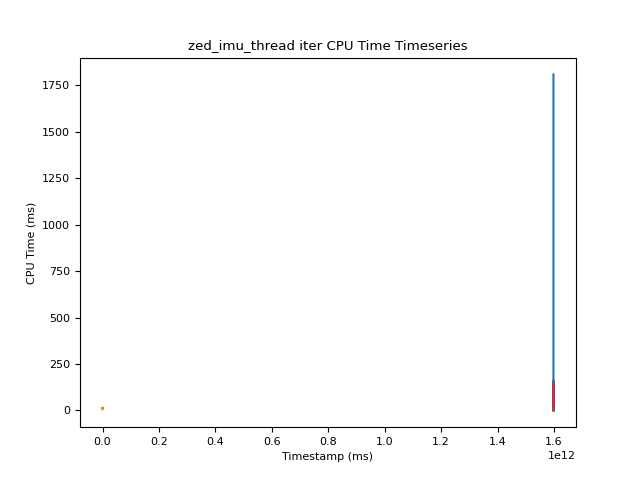
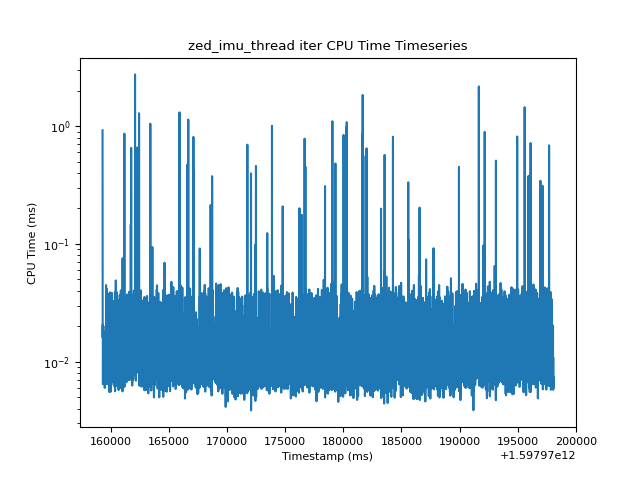
Generate Graphs

diff --git a/analysis/main.py b/analysis/main.py
@@ -495,15 +495,17 @@ def get_data(metrics_path: Path) -> Tuple[Any]:
 
         return ts, summaries, switchboard_topic_stop, thread_ids, warnings_log
 
-@ch_cache.decor(ch_cache.FileStore.create("../metrics"))
+FILE_NAME = "desktop-sponza"
+
+@ch_cache.decor(ch_cache.FileStore.create("../metrics-" + FILE_NAME))
 def get_data_cached(metrics_path: Path) -> Tuple[Any]:
     return get_data(metrics_path)
 
-ts, summaries, switchboard_topic_stop, thread_ids, warnings_log = get_data(Path("..") / "metrics")
+ts, summaries, switchboard_topic_stop, thread_ids, warnings_log = get_data(Path("..") / ("metrics-" + FILE_NAME))
 account_names = ts.index.levels[0]
 
 with ch_time_block.ctx("generating text output", print_start=False):
-    output_path = Path("../output")
+    output_path = Path("../output-" + FILE_NAME)
     output_path.mkdir(exist_ok=True)
     with (output_path / "account_summaries.md").open("w") as f:
         f.write("# Summaries\n\n")
@@ -538,79 +540,88 @@ with ch_time_block.ctx("generating text output", print_start=False):
             f.write("\n\n")
 
 with ch_time_block.ctx("generating combined timeseries", print_start=False):
-        # Stacked graphs
-        f, ax = plt.subplots(len(account_names), sharex=True)
-        f.tight_layout(pad=2.0)
-        plt.rcParams.update({'font.size': 8})
-        # plot the same data on both axes
-        for i, account_name in enumerate(account_names):
-            ax[i].plot(ts.loc[account_name, "wall_time_start"], ts.loc[account_name, "cpu_time_duration"], 'tab:orange', linewidth=.5)
-            # ax[i].set_title(f"{account_name} CPU Time Timeseries")
-            # ax[i].set(ylabel='CPU Time (ms)')
-        plt.xlabel("Timestamp (ms)")
-        plt.savefig(output_path / "stacked.png")
+    # Stacked graphs
+    total_cpu_time = 0.0
+    plt.rcParams.update({'font.size': 8})
 
-        # Stacked graphs
-        # f, ax = plt.subplots(len(account_names), sharex=True)
-        # f.tight_layout(pad=2.0)
+    ignore_list = ['opencv', 'Runtime']
+    # plot the same data on both axes
+    for account_name in account_names:
+        if account_name in ignore_list:
+            continue
+        total_cpu_time += summaries["cpu_time_duration_sum"][account_name]
+    
+    width = 0.4
+    bar_plots = []
+    rolling_sum = 0.0
+    for idx, name in enumerate(account_names):
+        if name in ignore_list:
+            continue
+            
+        bar_height = (summaries["cpu_time_duration_sum"][name] / total_cpu_time)
+        bar_plots.append(plt.bar(1, bar_height, width=width, bottom=rolling_sum)[0])
+        rolling_sum += bar_height
 
-        total_cpu_time = 0.0
-        plt.rcParams.update({'font.size': 8})
-        # plot the same data on both axes
-        for account_name in account_names:
-            total_cpu_time += summaries["cpu_time_duration_sum"][account_name]
+    plt.title('CPU Time Breakdown Per Run')
+    plt.xticks(np.arange(0, 1, step=1))
+    plt.xlabel("Jaes Results")
 
-        width = 0.4
-        bar_plots = []
-        rolling_sum = 0.0
-        for idx, name in enumerate(account_names):
-            bar_height = (summaries["cpu_time_duration_sum"][name] / total_cpu_time)
-            bar_plots.append(plt.bar(1, bar_height, width=width, bottom=rolling_sum))
-            rolling_sum += bar_height
+    plt.yticks(np.arange(0, 1.01, .1))
+    plt.ylabel('Percent of Total CPU Time')
 
-        plt.title('CPU Time Breakdown Per Run')
-        plt.xticks(np.arange(0, 1, step=1))
-        plt.xlabel("Jaes Results")
+    plt.subplots_adjust(right=0.7)
+    plt.legend([x for x in bar_plots][::-1], [name for name in account_names if name not in ignore_list][::-1], bbox_to_anchor=(1.04,0), loc="lower left", borderaxespad=0)
+    
+    plt.xlabel("Full System")
+    plt.savefig(output_path / "stacked.png")
 
-        plt.yticks(np.arange(0, 1.01, .1))
-        plt.ylabel('Percent of Total CPU Time')
+    # Overlayed graphs
+    f = plt.figure()
+    f.tight_layout(pad=2.0)
+    plt.rcParams.update({'font.size': 8})
+    # plot the same data on both axes
+    ax = f.gca()
+    ignore_list = ['app_gpu1', 'app_gpu2', 'timewarp_gl gpu', 'hologram', 'opencv', 'Runtime']
+    for i, account_name in enumerate(account_names):
+        if account_name in ignore_list:
+            continue
+        x_data = ts.loc[account_name, "wall_time_start"]
+        y_data = ts.loc[account_name, "cpu_time_duration"]
+        if account_name == 'hologram iter' or account_name == 'timewarp_gl iter':
+            x_data.drop(x_data.index[0], inplace=True)
+            y_data.drop(y_data.index[0], inplace=True)
+        ax.plot(x_data, y_data, label=account_name)
+        ax.set_title(f"{account_name} CPU Time Timeseries")
+        ax.set(ylabel='CPU Time (ms)')
+    plt.xlabel("Timestamp (ms)")
+    plt.legend(bbox_to_anchor=(1.04,0), loc="lower left", borderaxespad=0)
+    plt.subplots_adjust(right=0.8)
+    plt.yscale("log")
+    plt.savefig(output_path / "overlayed.png")
+    # import IPython; IPython.embed()
 
-
-        plt.subplots_adjust(right=0.7)
-        plt.legend([x[0] for x in bar_plots[::-1]], account_names[::-1], bbox_to_anchor=(1.04,0), loc="lower left", borderaxespad=0)
-
-        plt.xlabel("Full System")
-        plt.savefig(output_path / "stacked.png")
-
-        # Overlayed graphs
+    # Individual graphs
+    ts_dir = output_path / "ts"
+    ts_dir.mkdir(exist_ok=True)
+    for i, account_name in enumerate(account_names):
+        if account_name in ignore_list:
+            continue
         f = plt.figure()
         f.tight_layout(pad=2.0)
         plt.rcParams.update({'font.size': 8})
         # plot the same data on both axes
+        x_data = ts.loc[account_name, "wall_time_start"]
+        y_data = ts.loc[account_name, "cpu_time_duration"]
+        if account_name == 'hologram iter' or account_name == 'timewarp_gl iter':
+            x_data.drop(x_data.index[0], inplace=True)
+            y_data.drop(y_data.index[0], inplace=True)
         ax = f.gca()
-        for i, account_name in enumerate(account_names):
-            ax.plot(ts.loc[account_name, "wall_time_start"], ts.loc[account_name, "cpu_time_duration"])
-            ax.set_title(f"{account_name} CPU Time Timeseries")
-            ax.set(ylabel='CPU Time (ms)')
+        ax.plot(x_data, y_data)
+        ax.set_title(f"{account_name} CPU Time Timeseries")
+        ax.set(ylabel='CPU Time (ms)')
         plt.xlabel("Timestamp (ms)")
-        plt.savefig(output_path / "overlayed.png")
-
-        # Individual graphs
-        ts_dir = output_path / "ts"
-        ts_dir.mkdir()
-        for i, account_name in enumerate(account_names):
-            f = plt.figure()
-            f.tight_layout(pad=2.0)
-            plt.rcParams.update({'font.size': 8})
-            # plot the same data on both axes
-            ax = f.gca()
-            for i, account_name in enumerate(account_names):
-                ax.plot(ts.loc[account_name, "wall_time_start"], ts.loc[account_name, "cpu_time_duration"])
-                ax.set_title(f"{account_name} CPU Time Timeseries")
-                ax.set(ylabel='CPU Time (ms)')
-            plt.xlabel("Timestamp (ms)")
-
-            plt.savefig(ts_dir / f"{account_name}.png")
+        plt.yscale("log")
+        plt.savefig(ts_dir / f"{account_name}.png")
 
     # import IPython; IPython.embed()
     # print(summaries["cpu_time_duration_sum"].to_csv())
